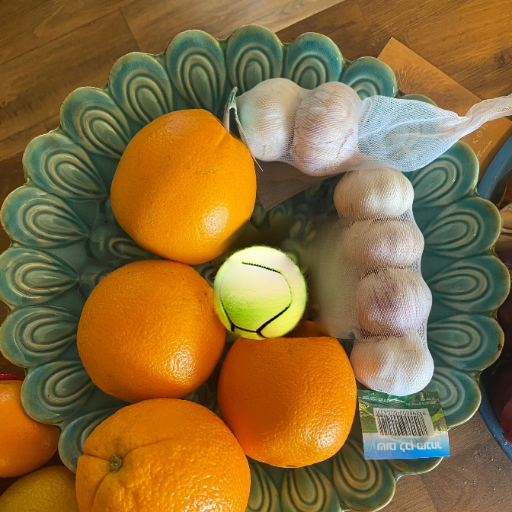
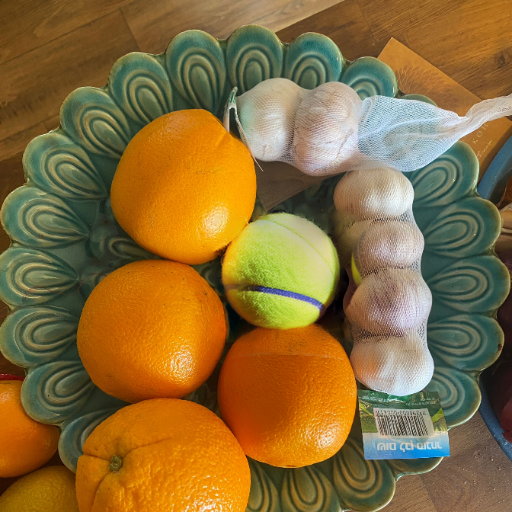
trying Masked Self-Attention

Changed region(s): [[0.4062, 0.4062, 0.7188, 0.6875]]

diff --git a/improved_pipeline_v9.py b/improved_pipeline_v9.py
@@ -1,0 +1,230 @@
+from vanilla_pipeline import InpaintPipeline
+import torch
+import torch.nn.functional as F
+import numpy as np
+import cv2 as cv
+from PIL import Image
+import math
+
+# ==========================================
+# 1. THE CUSTOM ATTENTION PROCESSOR
+# ==========================================
+class MaskedSelfAttentionProcessor:
+    def __init__(self, base_mask_tensor):
+        # The mask tensor from our Smart Crop (shape: [1, 1, 64, 64])
+        self.base_mask = base_mask_tensor
+
+    def __call__(self, attn, hidden_states, encoder_hidden_states=None, attention_mask=None, temb=None, *args, **kwargs):
+        # We only want to hack Image-to-Image (Self-Attention). 
+        # If text conditioning (encoder_hidden_states) is present, we process it normally.
+        is_cross_attention = encoder_hidden_states is not None
+        
+        batch_size, sequence_length, _ = hidden_states.shape
+        
+        if is_cross_attention:
+            encoder_hidden_states = encoder_hidden_states
+        else:
+            encoder_hidden_states = hidden_states
+
+        # Extract Query, Key, Value
+        query = attn.to_q(hidden_states)
+        key = attn.to_k(encoder_hidden_states)
+        value = attn.to_v(encoder_hidden_states)
+
+        inner_dim = key.shape[-1]
+        head_dim = inner_dim // attn.heads
+
+        # Reshape for multi-head attention: (batch, heads, sequence_length, head_dim)
+        query = query.view(batch_size, -1, attn.heads, head_dim).transpose(1, 2)
+        key = key.view(batch_size, -1, attn.heads, head_dim).transpose(1, 2)
+        value = value.view(batch_size, -1, attn.heads, head_dim).transpose(1, 2)
+
+        # Calculate standard attention scores
+        attention_scores = torch.matmul(query, key.transpose(-1, -2)) / math.sqrt(head_dim)
+
+        # --- THE HACK: Apply Mask Bias ONLY for Self-Attention ---
+        if not is_cross_attention:
+            # Find the resolution of this specific layer (e.g., 64x64, 32x32, 16x16)
+            spatial_size = int(math.sqrt(sequence_length))
+            
+            # Dynamically resize our mask to match the layer's internal resolution
+            current_mask = F.interpolate(
+                self.base_mask.to(dtype=attention_scores.dtype, device=attention_scores.device),
+                size=(spatial_size, spatial_size),
+                mode='nearest'
+            )
+            
+            # Flatten to (1, 1, sequence_length)
+            flat_mask = current_mask.view(1, 1, sequence_length)
+            
+            # query_mask represents the pixels "looking"
+            # key_mask represents the pixels "being looked at"
+            query_mask = flat_mask.unsqueeze(-1)
+            key_mask = flat_mask.unsqueeze(-2)
+            
+            # Rule: Background (0) cannot look at Foreground (1).
+            forbidden_connections = (1.0 - query_mask) * key_mask
+            
+            # Sever the connections by applying a massive mathematical penalty
+            bias = forbidden_connections * -10000.0
+            attention_scores = attention_scores + bias
+
+        # Softmax turns the -10000.0 penalty into 0.0 attention!
+        attention_probs = attention_scores.softmax(dim=-1)
+        
+        # Finish the standard attention math
+        hidden_states = torch.matmul(attention_probs, value)
+        hidden_states = hidden_states.transpose(1, 2).reshape(batch_size, -1, attn.heads * head_dim)
+        hidden_states = attn.to_out[0](hidden_states)
+
+        return hidden_states
+
+
+# ==========================================
+# 2. PIPELINE HELPERS
+# ==========================================
+def mask_op(image):
+    mask_np = np.array(image)
+    _, mask_np = cv.threshold(mask_np, 127, 255, cv.THRESH_BINARY)
+    # Standard dilation buffer
+    dilate_kernel = np.ones((25, 25), np.uint8)
+    mask_np = cv.dilate(mask_np, dilate_kernel, iterations=1)
+    return Image.fromarray(mask_np).resize((64, 64), Image.NEAREST)
+
+
+class ImprovedInpaintPipeline(InpaintPipeline):
+    def __init__(self):
+        super().__init__()
+        self.__class__.MASK_DEFAULT_PREPROC_OP = staticmethod(mask_op)
+
+    @torch.no_grad()
+    def denoise(self, text_embeddings, init_latents, mask_tensor, num_inference_steps=50):
+        self.scheduler.set_timesteps(num_inference_steps, device=self.device)
+        latents = torch.randn_like(init_latents)
+
+        # Vanilla Latent Blending loop
+        for i, t in enumerate(self.scheduler.timesteps):
+            latent_model_input = torch.cat([latents] * 2)
+            latent_model_input = self.scheduler.scale_model_input(latent_model_input, t)
+
+            noise_pred = self.unet(latent_model_input, t, encoder_hidden_states=text_embeddings).sample
+
+            noise_pred_uncond, noise_pred_text = noise_pred.chunk(2)
+            noise_pred = noise_pred_uncond + 7.5 * (noise_pred_text - noise_pred_uncond)
+
+            latents = self.scheduler.step(noise_pred, t, latents).prev_sample
+
+            if i < len(self.scheduler.timesteps) - 1:
+                t_next = self.scheduler.timesteps[i + 1]
+            else:
+                t_next = torch.tensor([0], device=self.device)
+
+            noise = torch.randn_like(init_latents)
+            noisy_init_latents = self.scheduler.add_noise(init_latents, noise, t_next)
+            
+            latents = (noisy_init_latents * (1 - mask_tensor)) + (latents * mask_tensor)
+            
+        return latents
+
+    @torch.no_grad()
+    def pipe(self, pipe_in):
+        mask_64 = pipe_in.mask_image
+        mask_512 = mask_64.resize((512, 512), Image.NEAREST)
+        mask_cv = np.array(mask_512)
+
+        if len(mask_cv.shape) == 3:
+            mask_cv_gray = cv.cvtColor(mask_cv, cv.COLOR_RGB2GRAY)
+        else:
+            mask_cv_gray = mask_cv
+
+        contours, _ = cv.findContours(mask_cv_gray, cv.RETR_EXTERNAL, cv.CHAIN_APPROX_SIMPLE)
+        if not contours:
+            return pipe_in.init_image.copy()
+
+        current_bg = pipe_in.init_image.copy()
+
+        for contour in contours:
+            x, y, w, h = cv.boundingRect(contour)
+            if w < 5 or h < 5:
+                continue
+
+            side = int(max(w, h) * 1.5)
+            side = max(side, 128)
+            side = min(side, 512)
+
+            cx, cy = x + w // 2, y + h // 2
+            x1 = max(0, cx - side // 2)
+            y1 = max(0, cy - side // 2)
+
+            if x1 + side > 512: x1 = 512 - side
+            if y1 + side > 512: y1 = 512 - side
+            crop_box = (x1, y1, x1 + side, y1 + side)
+
+            local_mask_cv = np.zeros_like(mask_cv_gray)
+            cv.drawContours(local_mask_cv, [contour], -1, 255, thickness=cv.FILLED)
+            local_mask_pil = Image.fromarray(local_mask_cv)
+            
+            cropped_init = current_bg.crop(crop_box).resize((512, 512), Image.LANCZOS)
+            cropped_mask = local_mask_pil.crop(crop_box).resize((64, 64), Image.NEAREST)
+
+            image_np = np.array(cropped_init).astype(np.float32) / 127.5 - 1.0
+            image_tensor = torch.from_numpy(image_np).permute(2, 0, 1).unsqueeze(0).to(self.device)
+            init_latents = self.SD_SCALE_FACTOR * self.vae.encode(image_tensor).latent_dist.sample()
+
+            mask_np = np.array(cropped_mask).astype(np.float32) / 255.0
+            mask_tensor = torch.from_numpy(mask_np).unsqueeze(0).unsqueeze(0).to(self.device)
+
+            # ==========================================
+            # 3. INJECT THE MASKED ATTENTION PROCESSOR
+            # ==========================================
+            # We iterate through the UNet's layers and inject our custom class ONLY into the Self-Attention blocks ('attn1')
+            new_processors = {}
+            for name, processor in self.unet.attn_processors.items():
+                if name.endswith("attn1.processor"):
+                    new_processors[name] = MaskedSelfAttentionProcessor(mask_tensor)
+                else:
+                    new_processors[name] = processor # Keep cross-attention default
+            
+            self.unet.set_attn_processor(new_processors)
+
+            # Generate! The UNet is now mathematically blocked from looking at noise.
+            text_embeddings = self.encode_prompt(pipe_in.prompt, self.text_encoder, self.tokenizer)
+            latents = self.denoise(text_embeddings, init_latents, mask_tensor)
+            ai_generated_crop = self.decode_latents(latents)
+
+            # ==========================================
+            # 4. RESTORE AND CLEANUP
+            # ==========================================
+            orig_crop_np = np.array(cropped_init)
+            ai_crop_np = np.array(ai_generated_crop)
+            
+            diff = cv.absdiff(orig_crop_np, ai_crop_np)
+            diff_gray = cv.cvtColor(diff, cv.COLOR_RGB2GRAY)
+            _, dynamic_mask_highres = cv.threshold(diff_gray, 15, 255, cv.THRESH_BINARY)
+            dynamic_mask_highres = cv.morphologyEx(dynamic_mask_highres, cv.MORPH_OPEN, np.ones((5, 5), np.uint8))
+            dynamic_mask_highres = cv.dilate(dynamic_mask_highres, np.ones((9, 9), np.uint8), iterations=1)
+
+            ai_generated_crop_restored = ai_generated_crop.resize((side, side), Image.LANCZOS)
+            dynamic_mask_small = Image.fromarray(dynamic_mask_highres).resize((side, side), Image.NEAREST)
+            dynamic_mask_small_cv = np.array(dynamic_mask_small)
+
+            full_ai_image = current_bg.copy()
+            full_ai_image.paste(ai_generated_crop_restored, (x1, y1))
+
+            final_clone_mask = np.zeros((512, 512), dtype=np.uint8)
+            final_clone_mask[y1:y1+side, x1:x1+side] = dynamic_mask_small_cv
+            
+            src = np.array(full_ai_image)
+            dst = np.array(current_bg)
+            final_clone_mask_color = cv.cvtColor(final_clone_mask, cv.COLOR_GRAY2RGB)
+            
+            x_d, y_d, w_d, h_d = cv.boundingRect(final_clone_mask)
+            if w_d > 0 and h_d > 0:
+                center = (x_d + w_d // 2, y_d + h_d // 2)
+                try:
+                    blended_np = cv.seamlessClone(src, dst, final_clone_mask_color, center, cv.NORMAL_CLONE)
+                    current_bg = Image.fromarray(blended_np)
+                except Exception:
+                    current_bg = full_ai_image
+
+        return current_bg
